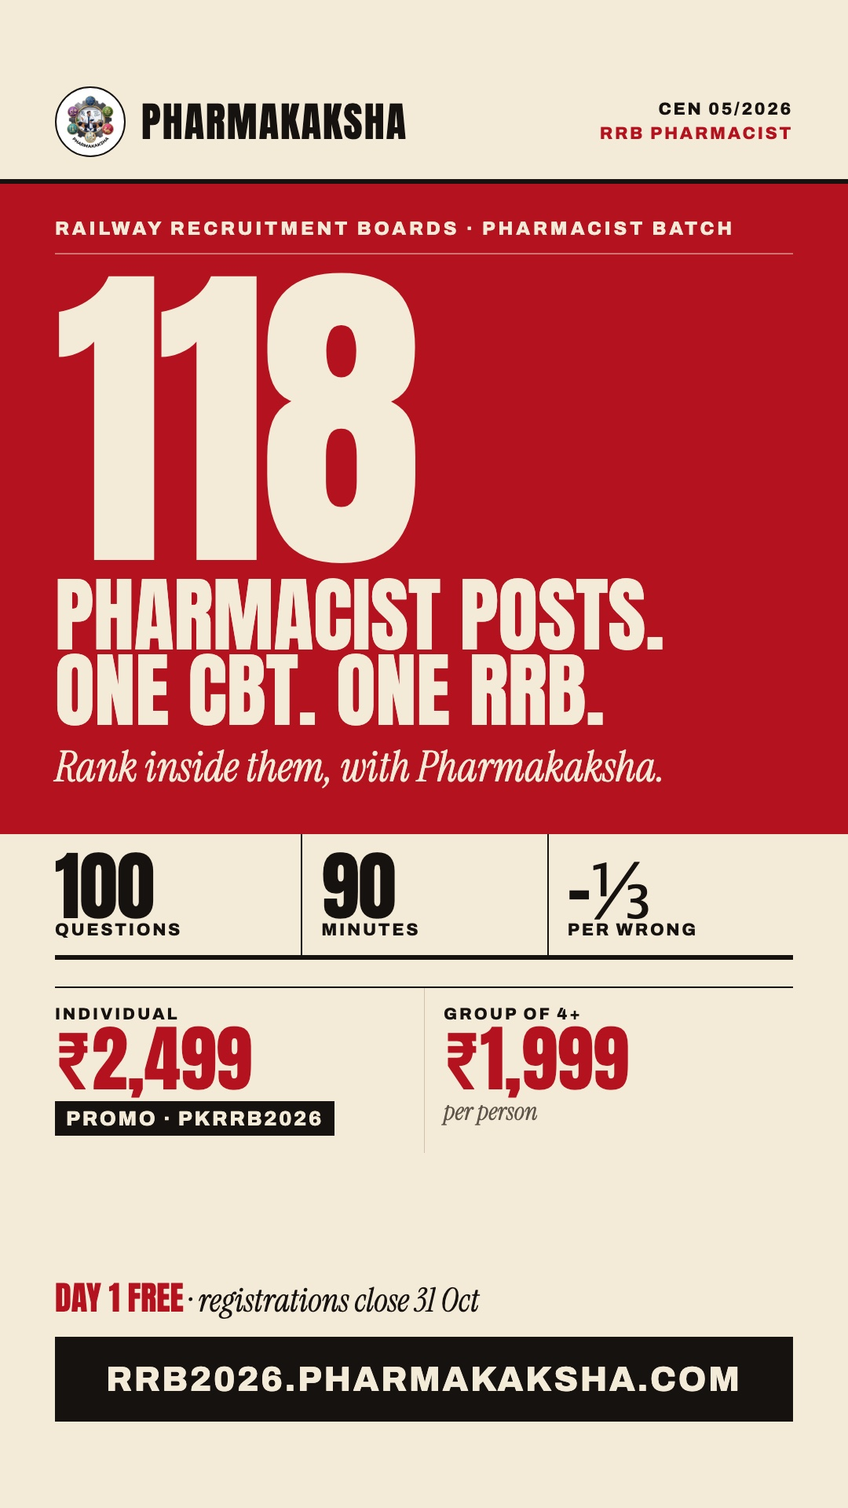
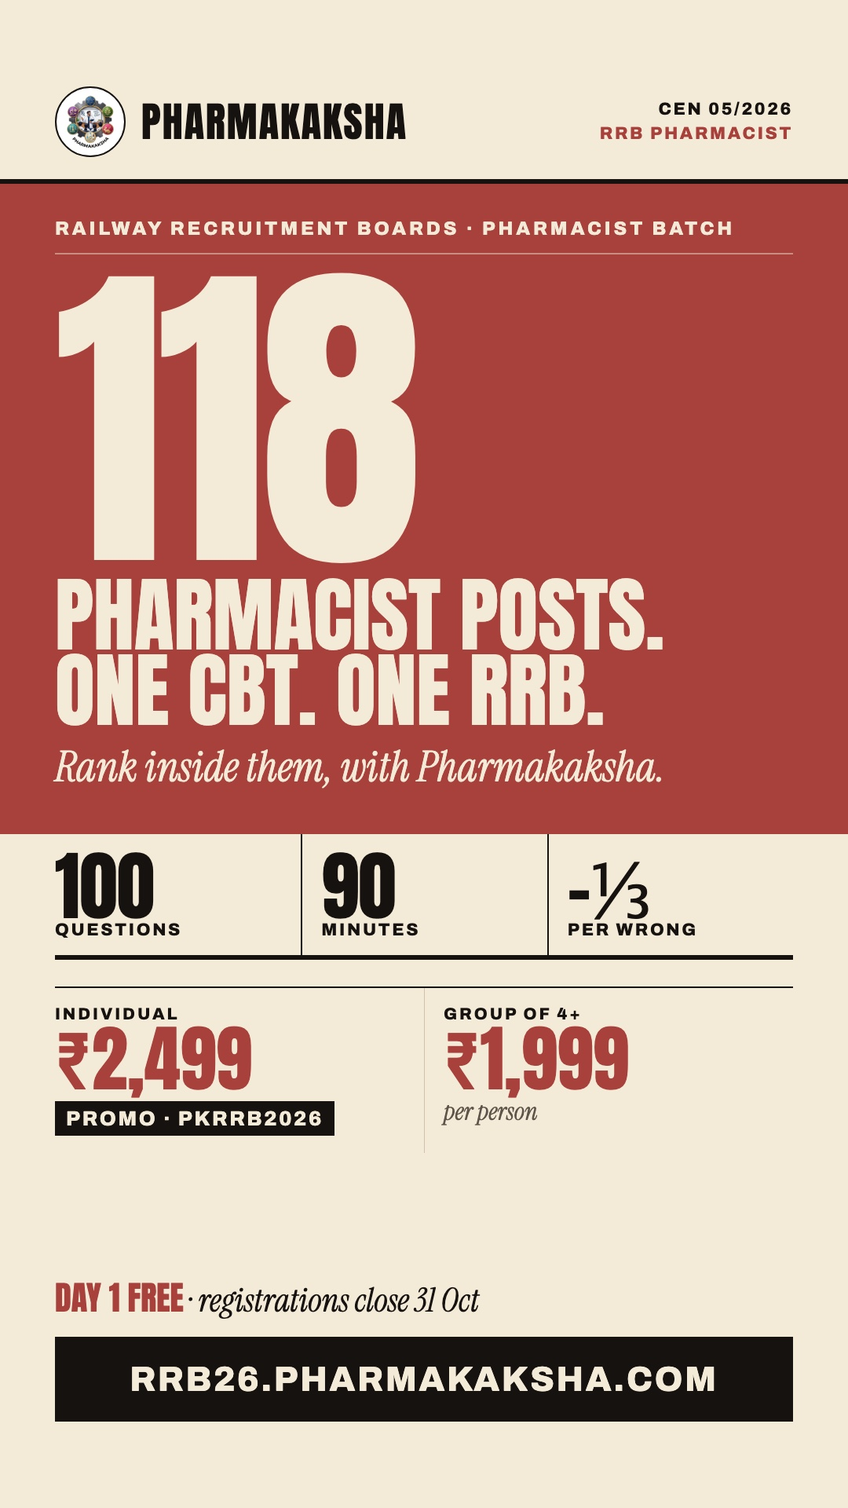
update cname

diff --git a/index.html b/index.html
@@ -3,16 +3,16 @@
 <head>
 <meta charset="utf-8">
 <meta name="viewport" content="width=device-width, initial-scale=1, viewport-fit=cover">
-<meta name="theme-color" content="#b3121e">
+<meta name="theme-color" content="#a8413c">
 <meta property="og:type" content="website">
-<meta property="og:url" content="https://rrb2026.pharmakaksha.com/">
+<meta property="og:url" content="https://rrb26.pharmakaksha.com/">
 <meta property="og:site_name" content="Pharmakaksha">
-<meta property="og:image" content="https://rrb2026.pharmakaksha.com/og-image.jpg?v=3">
+<meta property="og:image" content="https://rrb26.pharmakaksha.com/og-image.jpg?v=4">
 <meta property="og:image:width" content="1200">
 <meta property="og:image:height" content="630">
 <meta property="og:image:alt" content="Pharmakaksha: 118 RRB Pharmacist posts. One CBT. One RRB. Try Day 1 free, fee from ₹1,999, registrations close 31 Oct.">
 <meta name="twitter:card" content="summary_large_image">
-<link rel="canonical" href="https://rrb2026.pharmakaksha.com/">
+<link rel="canonical" href="https://rrb26.pharmakaksha.com/">
 <meta property="og:title" content="Pharmakaksha · RRB Pharmacist (CEN 05/2026) CBT batch">
 <meta property="og:description" content="118 posts. Try Day 1 free. Registrations close 31 Oct.">
 <link rel="icon" href="logo.jpg">
@@ -25,7 +25,7 @@
 /* Layout: an editorial poster. Cream paper, deep red and black blocks, huge condensed numerals, italic serif asides. */
 :root{
   --paper:#f3ead8; --paper2:#ebe0c9; --ink:#161210; --muted:#5e554a; --line:#cfc2a8;
-  --red:#b3121e; --red-ink:#f3ead8; --green:#1d6b3f;
+  --red:#a8413c; --red-ink:#f3ead8; --green:#1d6b3f;
   --display:"Anton", "Impact", "Arial Narrow", sans-serif;
   --serif:"Instrument Serif", Georgia, serif;
   --body:"Archivo", "Segoe UI", system-ui, sans-serif;
@@ -92,12 +92,22 @@ em,.it{font-family:var(--serif);font-style:italic;font-weight:400}
 .stats span{font:800 .66rem/1.3 var(--body);letter-spacing:.12em;text-transform:uppercase}
 
 /* Index */
-.toc{position:sticky;top:var(--bh,61px);z-index:7;background:var(--paper);margin:-24px -16px 0;padding:10px 16px;border-bottom:1px solid var(--ink)}
-.toc ol{list-style:none;margin:0;padding:0;display:flex;gap:18px;overflow-x:auto;scrollbar-width:none}
+.toc{position:sticky;top:var(--bh,61px);z-index:7;background:var(--paper);margin:-24px -16px 0;padding:8px 16px;border-bottom:1px solid var(--ink)}
+.toc ol{list-style:none;margin:0;padding:0;display:flex;gap:6px;overflow-x:auto;scrollbar-width:none}
 .toc ol::-webkit-scrollbar{display:none}
-.toc a{white-space:nowrap;text-decoration:none;font:800 .78rem/1 var(--body);letter-spacing:.1em;text-transform:uppercase;color:var(--ink);padding:6px 0;border-bottom:3px solid transparent}
+.toc a{display:block;white-space:nowrap;text-decoration:none;font:800 .76rem/1 var(--body);letter-spacing:.1em;text-transform:uppercase;color:var(--ink);padding:8px 10px;border:2px solid transparent;transition:background .2s,color .2s}
 .toc a span{color:var(--red);margin-right:6px}
-.toc a[aria-current="true"]{border-color:var(--red)}
+.toc a[aria-current="true"]{background:var(--red);border-color:var(--red);color:var(--red-ink)}
+.toc a[aria-current="true"] span{color:inherit}
+/* "You are here" line and reading progress */
+.here{display:flex;align-items:baseline;gap:6px;margin:6px 0 0;font:400 .98rem/1.3 var(--serif);font-style:italic;white-space:nowrap;overflow:hidden;text-overflow:ellipsis;max-width:none}
+.here[hidden]{display:none}
+.here .here-l{font:800 .6rem/1 var(--body);font-style:normal;letter-spacing:.14em;text-transform:uppercase;color:var(--muted)}
+.here b{font:400 1rem/1 var(--display);font-style:normal;color:var(--red);text-transform:uppercase;letter-spacing:.02em}
+.here #here-sub:not(:empty)::before{content:"›  ";font-style:normal;color:var(--muted)}
+.prog{position:absolute;left:0;bottom:-1px;height:3px;width:var(--p,0%);background:var(--red);transition:width .1s linear}
+.block > h3{transition:color .2s,border-color .2s}
+.block.on > h3{color:var(--red);border-color:var(--red)}
 section{display:flex;flex-direction:column;gap:20px;scroll-margin-top:calc(var(--bh,61px) + 56px)}
 
 /* Section openers */
@@ -136,7 +146,7 @@ section{display:flex;flex-direction:column;gap:20px;scroll-margin-top:calc(var(-
 .posts li:first-child b{color:var(--red)}
 .callout{background:var(--ink);color:var(--paper);padding:20px 18px;display:flex;flex-direction:column;gap:8px}
 .callout strong{font:400 clamp(1.9rem,7vw,2.8rem)/1 var(--display);text-transform:uppercase}
-.callout strong span{color:#ff6b5e}
+.callout strong span{color:#f2988c}
 .callout p{color:rgba(243,234,216,.85);font-size:.97rem}
 
 /* Eligibility */
@@ -236,7 +246,7 @@ details ul{margin:0;padding:0 0 14px 20px;display:flex;flex-direction:column;gap
 .wk .tags{display:flex;flex-wrap:wrap;gap:6px;margin-top:8px}
 .wk .tags .tag{margin:0}
 .wk.now .no{color:var(--red);-webkit-text-stroke:0}
-.wk.now{background:linear-gradient(90deg,rgba(179,18,30,.07),transparent)}
+.wk.now{background:linear-gradient(90deg,rgba(168,65,60,.07),transparent)}
 .wk.gone{opacity:.45}
 .wk.mock{background:var(--ink);color:var(--paper);padding:18px 14px;margin-top:4px}
 .wk.mock .no{-webkit-text-stroke:0;color:var(--red);font-size:3rem}
@@ -285,7 +295,7 @@ details ul{margin:0;padding:0 0 14px 20px;display:flex;flex-direction:column;gap
 .sticky{position:fixed;left:0;right:0;bottom:0;z-index:9;background:var(--ink);color:var(--paper);padding:10px 16px calc(10px + env(safe-area-inset-bottom,0px));display:flex;justify-content:center}
 .sticky-in{max-width:860px;width:100%;display:flex;align-items:center;justify-content:space-between;gap:12px}
 .sticky-in > span{font:400 1rem/1.2 var(--serif);font-style:italic}
-.sticky-in > span b{font:400 1.6rem/1 var(--display);font-style:normal;color:#ff6b5e;margin-right:4px}
+.sticky-in > span b{font:400 1.6rem/1 var(--display);font-style:normal;color:#f2988c;margin-right:4px}
 .sticky .cta{flex-wrap:nowrap;gap:8px;flex:none}
 .sticky .btn{background:var(--red);color:var(--red-ink)}
 .sticky .btn.ghost{background:transparent;border-color:var(--paper);color:var(--paper)}
@@ -346,6 +356,8 @@ details ul{margin:0;padding:0 0 14px 20px;display:flex;flex-direction:column;gap
       <li><a href="#plan"><span>05</span>Study plan</a></li>
       <li><a href="#enrol"><span>→</span>Join</a></li>
     </ol>
+    <p class="here" id="here" aria-live="polite" hidden><span class="here-l">You are here</span> <b id="here-sec"></b><span id="here-sub"></span></p>
+    <i class="prog" id="prog" aria-hidden="true"></i>
   </nav>
 
   <!-- 01 About -->
@@ -612,9 +624,8 @@ const CONFIG = {
   chat: "https://wa.me/message/76WJAZO5A3NEB1",                       // chat to register
   email: "support@pharmakaksha.com",
   register: "https://pharmakaksha.com", // where "Register now" goes
-  url: "https://rrb2026.pharmakaksha.com/",
-  shareText: "RRB Pharmacist CBT (CEN 05/2026): 118 posts. Pharmakaksha's batch has daily tests, 5 full-length mock CBTs and a week-by-week plan:",
-  cfAnalyticsToken: "a1186335401f4b0e80edd9c4b94f9c28"  // Cloudflare Web Analytics token for rrb2026.pharmakaksha.com; "" turns it off
+  url: "https://rrb26.pharmakaksha.com/",
+  shareText: "RRB Pharmacist CBT (CEN 05/2026): 118 posts. Pharmakaksha's batch has daily tests, 5 full-length mock CBTs and a week-by-week plan:"
 };
 
 /* Dates the hero countdown and the sticky bar count down to, soonest first.
@@ -667,14 +678,6 @@ document.querySelectorAll("a.reglink").forEach(a => {
   if (label) label.textContent = "Ask about the next batch";
 });
 if (!open) $("trial").hidden = true;
-
-// Privacy-friendly analytics: no cookies, no personal data. Loads only on the live site.
-if (CONFIG.cfAnalyticsToken && location.hostname === new URL(CONFIG.url).hostname) {
-  const b = document.createElement("script");
-  b.defer = true; b.src = "https://static.cloudflareinsights.com/beacon.min.js";
-  b.dataset.cfBeacon = JSON.stringify({ token: CONFIG.cfAnalyticsToken });
-  document.head.appendChild(b);
-}
 
 // Countdown to the soonest upcoming date; the CBT joins once CONFIG.exam is set.
 const targets = MILESTONES.concat(CONFIG.exam ? [{ at: CONFIG.exam, label: "the Pharmacist CBT", short: "the CBT" }] : [])
@@ -802,18 +805,40 @@ addEventListener("beforeprint", () => document.querySelectorAll("details").forEa
 // The plan rows shift the page after load, so re-land on a #section link.
 try { if (location.hash) document.querySelector(location.hash)?.scrollIntoView({ behavior: "instant" }); } catch (e) {}
 
-// Index: mark the link for the section currently in view.
-const chips = [...document.querySelectorAll(".toc a")];
-const spy = new IntersectionObserver(es => es.forEach(e => {
-  if (!e.isIntersecting) return;
+// Where am I: on scroll, mark the section under the index bar (filled tab), name it and its
+// sub-section in the "You are here" line, highlight that sub-section's heading and fill the progress bar.
+const toc = document.querySelector(".toc");
+const chips = [...toc.querySelectorAll("a")];
+const secs = chips.map(c => document.querySelector(c.hash)).filter(Boolean);
+const names = { enrol: "Join the batch" };
+let lastSec = null, lastBlock = null;
+function whereAmI(){
+  const line = toc.getBoundingClientRect().bottom + 24;   // the reading line, just below the sticky bars
+  const sec = secs.filter(s => s.getBoundingClientRect().top <= line).pop() || null;
+  const block = sec ? [...sec.querySelectorAll(":scope > .block")].filter(b => b.getBoundingClientRect().top <= line).pop() || null : null;
+  const max = document.documentElement.scrollHeight - innerHeight;
+  $("prog").style.setProperty("--p", (max > 0 ? Math.min(100, scrollY / max * 100) : 0).toFixed(1) + "%");
+  if (sec === lastSec && block === lastBlock) return;
+  lastSec = sec; lastBlock = block;
   chips.forEach(c => {
-    const on = c.hash === "#" + e.target.id;
+    const on = !!sec && c.hash === "#" + sec.id;
     c.setAttribute("aria-current", on);
     if (on) { const ol = c.closest("ol"), cr = c.getBoundingClientRect(), or = ol.getBoundingClientRect();
-      if (cr.left < or.left || cr.right > or.right) ol.scrollBy({ left: cr.left - or.left - 8 }); }
+      if (cr.left < or.left || cr.right > or.right) ol.scrollBy({ left: cr.left - or.left - 8, behavior: "smooth" }); }
   });
-}), { rootMargin: "-40% 0px -55% 0px" });
-chips.forEach(c => { const t = document.querySelector(c.hash); if (t) spy.observe(t); });
+  document.querySelectorAll(".block.on").forEach(b => b.classList.remove("on"));
+  if (block) block.classList.add("on");
+  $("here").hidden = !sec;
+  if (sec) {
+    const chip = chips.find(c => c.hash === "#" + sec.id);
+    $("here-sec").textContent = names[sec.id] || chip.textContent.replace(/^\d+/, m => m + " ");
+    $("here-sub").textContent = block ? block.querySelector("h3").textContent : "";
+  }
+}
+addEventListener("scroll", whereAmI, { passive: true });
+addEventListener("resize", whereAmI);
+whereAmI();
 </script>
+<!-- Cloudflare Web Analytics --><script type='module' src='https://static.cloudflareinsights.com/beacon.min.js' data-cf-beacon='{"token": "a1186335401f4b0e80edd9c4b94f9c28"}'></script><!-- End Cloudflare Web Analytics -->
 </body>
 </html>

diff --git a/marketing/src/whatsapp-status.html b/marketing/src/whatsapp-status.html
@@ -11,8 +11,8 @@ body{width:1080px;height:1920px;background:#f3ead8;color:#161210;font-family:"Ar
 .mast img{width:90px;height:90px;border-radius:50%;background:#fff;padding:4px;border:2px solid #161210}
 .mast b{font-family:"Anton";font-weight:400;font-size:52px;letter-spacing:.04em}
 .mast span{margin-left:auto;text-align:right;font-weight:800;font-size:22px;letter-spacing:.12em;line-height:1.4}
-.mast span i{display:block;font-style:normal;color:#b3121e}
-.red{background:#b3121e;color:#f3ead8;padding:44px 70px 50px}
+.mast span i{display:block;font-style:normal;color:#a8413c}
+.red{background:#a8413c;color:#f3ead8;padding:44px 70px 50px}
 .kick{font-weight:800;font-size:24px;letter-spacing:.16em;border-bottom:2px solid rgba(243,234,216,.45);padding-bottom:18px}
 .big{font-family:"Anton";font-size:420px;line-height:.92;letter-spacing:-.02em;margin-top:18px}
 h1{font-family:"Anton";font-weight:400;font-size:104px;line-height:.92;text-transform:uppercase;margin-top:8px}
@@ -26,12 +26,12 @@ h1{font-family:"Anton";font-weight:400;font-size:104px;line-height:.92;text-tran
 .offer div{padding:22px 0}
 .offer div + div{border-left:1px solid #cfc2a8;padding-left:24px}
 .offer small{font-weight:800;font-size:21px;letter-spacing:.14em}
-.offer b{display:block;font-family:"Anton";font-weight:400;font-size:92px;line-height:1;color:#b3121e}
+.offer b{display:block;font-family:"Anton";font-weight:400;font-size:92px;line-height:1;color:#a8413c}
 .offer em{font-family:"Instrument Serif";font-size:32px;color:#5e554a}
 .offer span{display:inline-block;margin-top:8px;background:#161210;color:#f3ead8;font-weight:800;font-size:26px;letter-spacing:.1em;padding:8px 14px}
 .foot{margin:auto 70px 110px;display:flex;flex-direction:column;gap:18px}
 .foot .close{font-family:"Instrument Serif";font-style:italic;font-size:42px}
-.foot .close b{font-family:"Anton";font-style:normal;font-weight:400;color:#b3121e}
+.foot .close b{font-family:"Anton";font-style:normal;font-weight:400;color:#a8413c}
 .url{background:#161210;color:#f3ead8;font-weight:800;font-size:44px;letter-spacing:.06em;padding:30px;text-align:center}
 </style>
 </head>
@@ -54,7 +54,7 @@ h1{font-family:"Anton";font-weight:400;font-size:104px;line-height:.92;text-tran
   </div>
   <div class="foot">
     <p class="close"><b>DAY 1 FREE</b> · registrations close 31 Oct</p>
-    <div class="url">RRB2026.PHARMAKAKSHA.COM</div>
+    <div class="url">RRB26.PHARMAKAKSHA.COM</div>
   </div>
 </body>
 </html>

diff --git a/templates/departure-board.html b/templates/departure-board.html
@@ -5,14 +5,14 @@
 <meta name="viewport" content="width=device-width, initial-scale=1, viewport-fit=cover">
 <meta name="theme-color" content="#0a0b0d">
 <meta property="og:type" content="website">
-<meta property="og:url" content="https://rrb2026.pharmakaksha.com/">
+<meta property="og:url" content="https://rrb26.pharmakaksha.com/">
 <meta property="og:site_name" content="Pharmakaksha">
-<meta property="og:image" content="https://rrb2026.pharmakaksha.com/og-image.jpg?v=1">
+<meta property="og:image" content="https://rrb26.pharmakaksha.com/og-image.jpg?v=1">
 <meta property="og:image:width" content="1200">
 <meta property="og:image:height" content="630">
 <meta property="og:image:alt" content="Pharmakaksha: Crack the RRB Pharmacist CBT. 118 posts, CEN 05/2026. Try Day 1 free, fee from ₹1,999, registrations close 31 Oct.">
 <meta name="twitter:card" content="summary_large_image">
-<link rel="canonical" href="https://rrb2026.pharmakaksha.com/">
+<link rel="canonical" href="https://rrb26.pharmakaksha.com/">
 <meta property="og:title" content="Pharmakaksha · RRB Pharmacist (CEN 05/2026) CBT batch">
 <meta property="og:description" content="118 posts. Try Day 1 free. Registrations close 31 Oct.">
 <link rel="icon" href="../logo.jpg">
@@ -636,9 +636,9 @@ const CONFIG = {
   chat: "https://wa.me/message/76WJAZO5A3NEB1",                       // chat to register
   email: "support@pharmakaksha.com",
   register: "https://pharmakaksha.com", // where "Register now" goes
-  url: "https://rrb2026.pharmakaksha.com/",
+  url: "https://rrb26.pharmakaksha.com/",
   shareText: "RRB Pharmacist CBT (CEN 05/2026): 118 posts. Pharmakaksha's batch has daily tests, 5 full-length mock CBTs and a week-by-week plan:",
-  cfAnalyticsToken: ""  // Cloudflare Web Analytics token for rrb2026.pharmakaksha.com; "" turns it off
+  cfAnalyticsToken: ""  // Cloudflare Web Analytics token for rrb26.pharmakaksha.com; "" turns it off
 };
 
 /* Dates the hero countdown and the sticky bar count down to, soonest first.

diff --git a/templates/edtech-app.html b/templates/edtech-app.html
@@ -5,14 +5,14 @@
 <meta name="viewport" content="width=device-width, initial-scale=1, viewport-fit=cover">
 <meta name="theme-color" content="#4f35e8">
 <meta property="og:type" content="website">
-<meta property="og:url" content="https://rrb2026.pharmakaksha.com/">
+<meta property="og:url" content="https://rrb26.pharmakaksha.com/">
 <meta property="og:site_name" content="Pharmakaksha">
-<meta property="og:image" content="https://rrb2026.pharmakaksha.com/og-image.jpg?v=4">
+<meta property="og:image" content="https://rrb26.pharmakaksha.com/og-image.jpg?v=4">
 <meta property="og:image:width" content="1200">
 <meta property="og:image:height" content="630">
 <meta property="og:image:alt" content="Pharmakaksha: Crack the RRB Pharmacist CBT. 118 posts, CEN 05/2026. Try Day 1 free, fee from ₹1,999, registrations close 31 Oct.">
 <meta name="twitter:card" content="summary_large_image">
-<link rel="canonical" href="https://rrb2026.pharmakaksha.com/">
+<link rel="canonical" href="https://rrb26.pharmakaksha.com/">
 <meta property="og:title" content="Pharmakaksha · RRB Pharmacist (CEN 05/2026) CBT batch">
 <meta property="og:description" content="118 posts. Try Day 1 free. Registrations close 31 Oct.">
 <link rel="icon" href="../logo.jpg">
@@ -620,9 +620,9 @@ const CONFIG = {
   chat: "https://wa.me/message/76WJAZO5A3NEB1",                       // chat to register
   email: "support@pharmakaksha.com",
   register: "https://pharmakaksha.com", // where "Register now" goes
-  url: "https://rrb2026.pharmakaksha.com/",
+  url: "https://rrb26.pharmakaksha.com/",
   shareText: "RRB Pharmacist CBT (CEN 05/2026): 118 posts. Pharmakaksha's batch has daily tests, 5 full-length mock CBTs and a week-by-week plan:",
-  cfAnalyticsToken: ""  // Cloudflare Web Analytics token for rrb2026.pharmakaksha.com; "" turns it off
+  cfAnalyticsToken: ""  // Cloudflare Web Analytics token for rrb26.pharmakaksha.com; "" turns it off
 };
 
 /* Dates the hero countdown and the sticky bar count down to, soonest first.

diff --git a/templates/ticket.html b/templates/ticket.html
@@ -4,14 +4,14 @@
 <meta charset="utf-8">
 <meta name="viewport" content="width=device-width, initial-scale=1, viewport-fit=cover">
 <meta property="og:type" content="website">
-<meta property="og:url" content="https://rrb2026.pharmakaksha.com/">
+<meta property="og:url" content="https://rrb26.pharmakaksha.com/">
 <meta property="og:site_name" content="Pharmakaksha">
-<meta property="og:image" content="https://rrb2026.pharmakaksha.com/og-image.jpg?v=1">
+<meta property="og:image" content="https://rrb26.pharmakaksha.com/og-image.jpg?v=1">
 <meta property="og:image:width" content="1200">
 <meta property="og:image:height" content="630">
 <meta property="og:image:alt" content="Pharmakaksha: Crack the RRB Pharmacist CBT. 118 posts, CEN 05/2026. Try Day 1 free, fee from ₹1,999, registrations close 31 Oct.">
 <meta name="twitter:card" content="summary_large_image">
-<link rel="canonical" href="https://rrb2026.pharmakaksha.com/">
+<link rel="canonical" href="https://rrb26.pharmakaksha.com/">
 <meta property="og:title" content="Pharmakaksha · RRB Pharmacist (CEN 05/2026) CBT batch">
 <meta property="og:description" content="118 posts. Try Day 1 free. Registrations close 31 Oct.">
 <link rel="icon" href="../logo.jpg">
@@ -618,9 +618,9 @@ const CONFIG = {
   chat: "https://wa.me/message/76WJAZO5A3NEB1",                       // chat to register
   email: "support@pharmakaksha.com",
   register: "https://pharmakaksha.com", // where "Register now" goes
-  url: "https://rrb2026.pharmakaksha.com/",
+  url: "https://rrb26.pharmakaksha.com/",
   shareText: "RRB Pharmacist CBT (CEN 05/2026): 118 posts. Pharmakaksha's batch has daily tests, 5 full-length mock CBTs and a week-by-week plan:",
-  cfAnalyticsToken: ""  // Cloudflare Web Analytics token for rrb2026.pharmakaksha.com; "" turns it off
+  cfAnalyticsToken: ""  // Cloudflare Web Analytics token for rrb26.pharmakaksha.com; "" turns it off
 };
 
 /* Dates the hero countdown and the sticky bar count down to, soonest first.

diff --git a/marketing/src/og-image.html b/marketing/src/og-image.html
@@ -7,7 +7,7 @@
 <style>
 *{box-sizing:border-box;margin:0}
 body{width:1200px;height:630px;background:#f3ead8;color:#161210;font-family:"Archivo",sans-serif;display:grid;grid-template-columns:690px 1fr;overflow:hidden}
-.red{background:#b3121e;color:#f3ead8;padding:34px 40px;display:flex;flex-direction:column;justify-content:space-between}
+.red{background:#a8413c;color:#f3ead8;padding:34px 40px;display:flex;flex-direction:column;justify-content:space-between}
 .kick{font-weight:800;font-size:15px;letter-spacing:.16em;border-bottom:1px solid rgba(243,234,216,.45);padding-bottom:12px}
 .big{font-family:"Anton";font-size:300px;line-height:.78;letter-spacing:-.02em;margin-top:6px}
 h1{font-family:"Anton";font-weight:400;font-size:62px;line-height:.95;text-transform:uppercase}
@@ -19,7 +19,7 @@ h1{font-family:"Anton";font-weight:400;font-size:62px;line-height:.95;text-trans
 .row{display:flex;flex-direction:column;gap:2px;border-bottom:1px solid #cfc2a8;padding-bottom:12px}
 .row small{font-weight:800;font-size:13px;letter-spacing:.16em}
 .row b{font-family:"Anton";font-weight:400;font-size:52px;line-height:1}
-.row b.r{color:#b3121e}
+.row b.r{color:#a8413c}
 .row em{font-family:"Instrument Serif";font-size:24px;color:#5e554a}
 .url{margin-top:auto;background:#161210;color:#f3ead8;font-weight:800;font-size:20px;letter-spacing:.06em;padding:14px 18px;text-align:center}
 </style>
@@ -34,7 +34,7 @@ h1{font-family:"Anton";font-weight:400;font-size:62px;line-height:.95;text-trans
     <div class="brand"><img src="../../logo.jpg" alt=""><b>PHARMAKAKSHA</b></div>
     <div class="row"><small>INTRODUCTORY OFFER</small><b class="r">TRY DAY 1 FREE</b></div>
     <div class="row"><small>FEE FROM</small><b>₹1,999 <em>· registrations close 31 Oct</em></b></div>
-    <div class="url">RRB2026.PHARMAKAKSHA.COM</div>
+    <div class="url">RRB26.PHARMAKAKSHA.COM</div>
   </div>
 </body>
 </html>

diff --git a/README.md b/README.md
@@ -1,18 +1,18 @@
 # RRB Pharmacist (CEN 05/2026) brochure
 
-Interactive one-page brochure for the Pharmakaksha batch for the Railway Recruitment Boards' Pharmacist (Entry Grade) computer-based test under CEN 05/2026 (Paramedical Categories). Live at **https://rrb2026.pharmakaksha.com/**.
+Interactive one-page brochure for the Pharmakaksha batch for the Railway Recruitment Boards' Pharmacist (Entry Grade) computer-based test under CEN 05/2026 (Paramedical Categories). Live at **https://rrb26.pharmakaksha.com/**.
 
 It is styled as an editorial poster: cream, deep red and black, a giant "118" hero, huge condensed numerals and italic serif asides. Dates and plan weeks show their status (open now, upcoming, done) as the dates pass. It prints cleanly to PDF (no sticky bars, every syllabus group open). It has a countdown to the next important date, an index bar, the official dates, posts by RRB, eligibility and age limits, the application fee, the selection steps, the paper pattern, a +1 / −⅓ score calculator, a guessing guide, what the batch includes, the official syllabus, a week-by-week study plan, fees with offers, contact details and social links. It is a single static `index.html`, so no build step is needed.
 
 ## Editing the details
 
-Open `index.html` and find `const CONFIG` near the bottom. It holds the fee and offers, the registration close date, batch start, the CBT date, contact links, the share message and the Cloudflare analytics token.
+Open `index.html` and find `const CONFIG` near the bottom. It holds the fee and offers, the registration close date, batch start, the CBT date, contact links and the share message.
 
 - **CBT date:** RRB has not announced it yet. When it does, set `exam`, for example `"2027-01-20T09:00:00+05:30"`. The countdown, the "CBT date" field and the exam row in the plan then use it.
 - **Countdown dates:** `MILESTONES`, just below `CONFIG`. The hero and sticky bar count down to the soonest upcoming one.
 - **Study plan:** the `PLAN` list further down, one entry per week.
 - **Links:** the register, chat, channel and email links are also written into the HTML, so they work even if the script fails. If you change one in `CONFIG`, change it in the HTML too (search for the old URL).
-- **Analytics:** `cfAnalyticsToken` holds the Cloudflare Web Analytics token for `rrb2026.pharmakaksha.com`. The beacon loads only on that hostname, so local previews aren't counted. Set it to `""` to turn analytics off.
+- **Analytics:** the Cloudflare Web Analytics snippet sits just before `</body>` in `index.html`. To turn analytics off, delete that one line.
 
 After 31 Oct (`regClose`) the page switches by itself: the status badge says closed, the free-trial card hides and the Register buttons become "Ask about the next batch" and open the WhatsApp chat.
 
@@ -36,10 +36,10 @@ git add -A && git commit -m "Update brochure" && git push
 
 Progress shows under the repository's **Actions** tab.
 
-### Custom domain: rrb2026.pharmakaksha.com
+### Custom domain: rrb26.pharmakaksha.com
 
-The `CNAME` file already contains `rrb2026.pharmakaksha.com`.
-The DNS record (Type `CNAME`, Host `rrb2026`, Value `ajreddys.github.io`) is in place, and the custom domain is set in **Settings → Pages**. Once GitHub has issued the certificate, tick **Enforce HTTPS** there if it isn't on already.
+The `CNAME` file already contains `rrb26.pharmakaksha.com`.
+The DNS record (Type `CNAME`, Host `rrb26`, Value `ajreddys.github.io`) is in place, and the custom domain is set in **Settings → Pages**. Once GitHub has issued the certificate, tick **Enforce HTTPS** there if it isn't on already.
 
 ## Files
 
@@ -48,7 +48,7 @@ The DNS record (Type `CNAME`, Host `rrb2026`, Value `ajreddys.github.io`) is in 
 | `index.html` | The brochure page (styles and script included) |
 | `logo.jpg` | Pharmakaksha logo, used in the header and as the favicon |
 | `og-image.jpg` | Link preview card |
-| `CNAME` | The custom domain `rrb2026.pharmakaksha.com` |
+| `CNAME` | The custom domain `rrb26.pharmakaksha.com` |
 | `.nojekyll` | Tells GitHub Pages to serve the files as they are |
 | `.github/workflows/deploy.yml` | Deploys the site files to GitHub Pages |
 | `templates/` | Alternative designs (modern ed-tech app, departure board, railway ticket), not deployed. See `templates/README.md` for reusing one in a new project |
